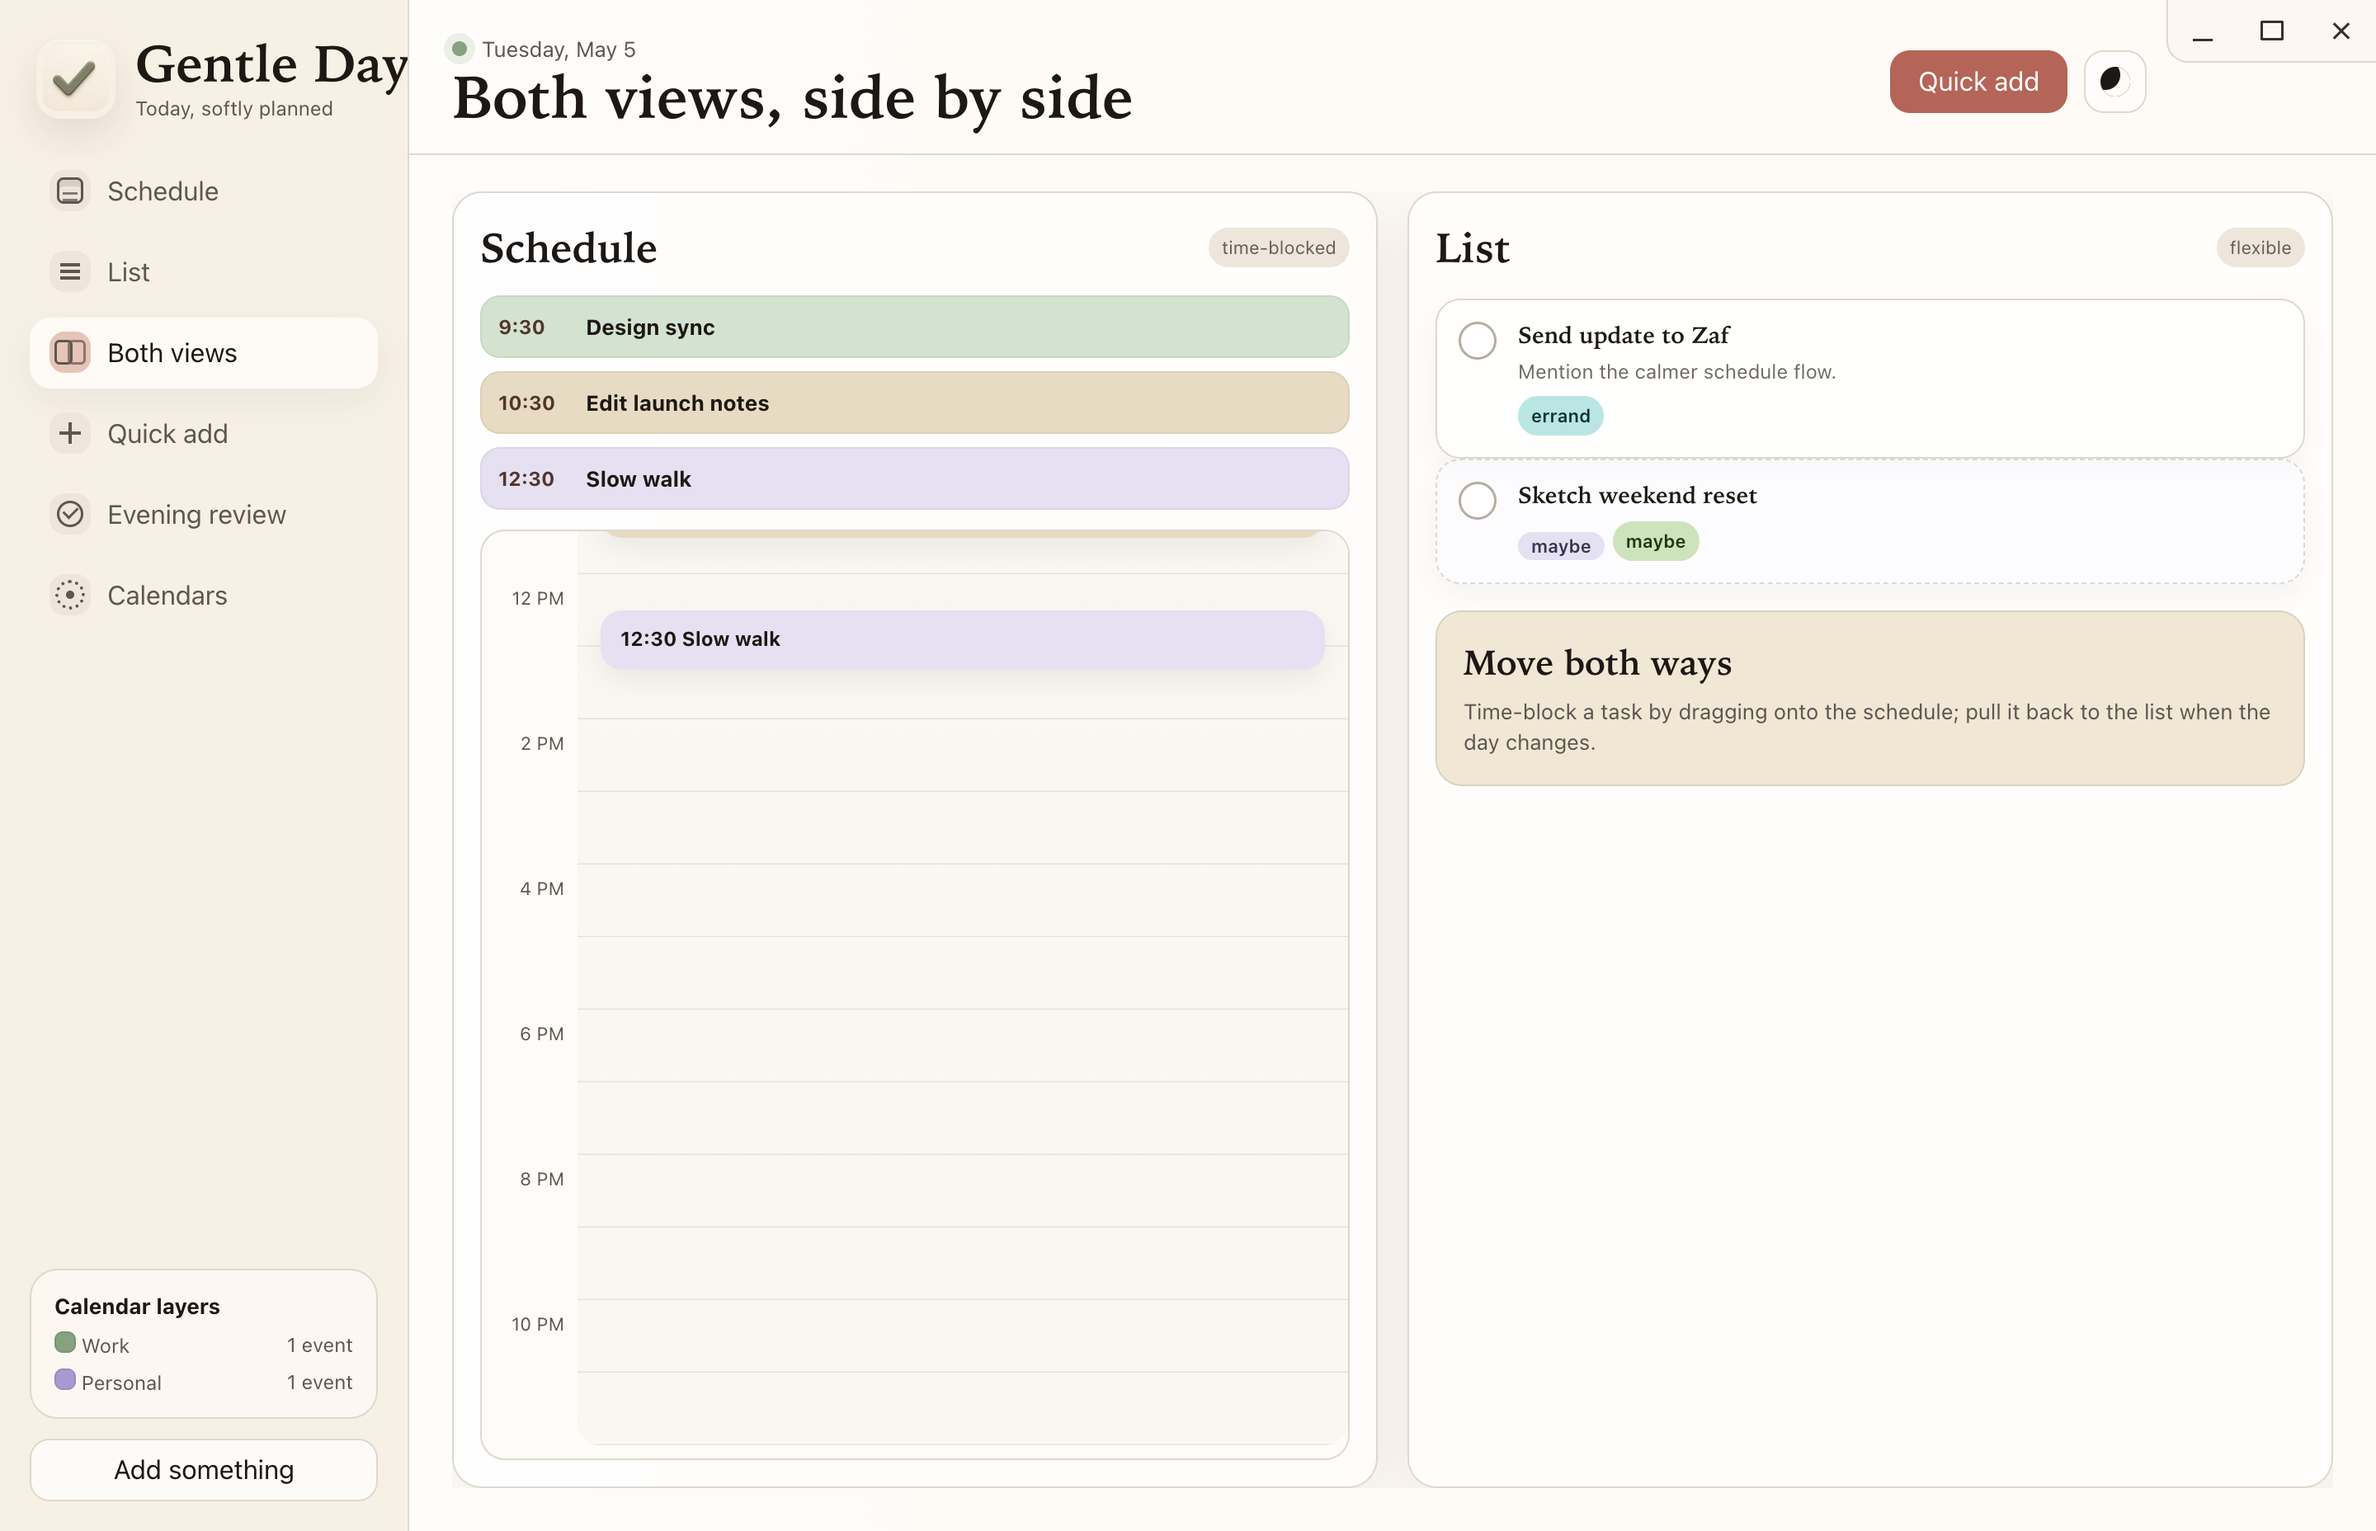
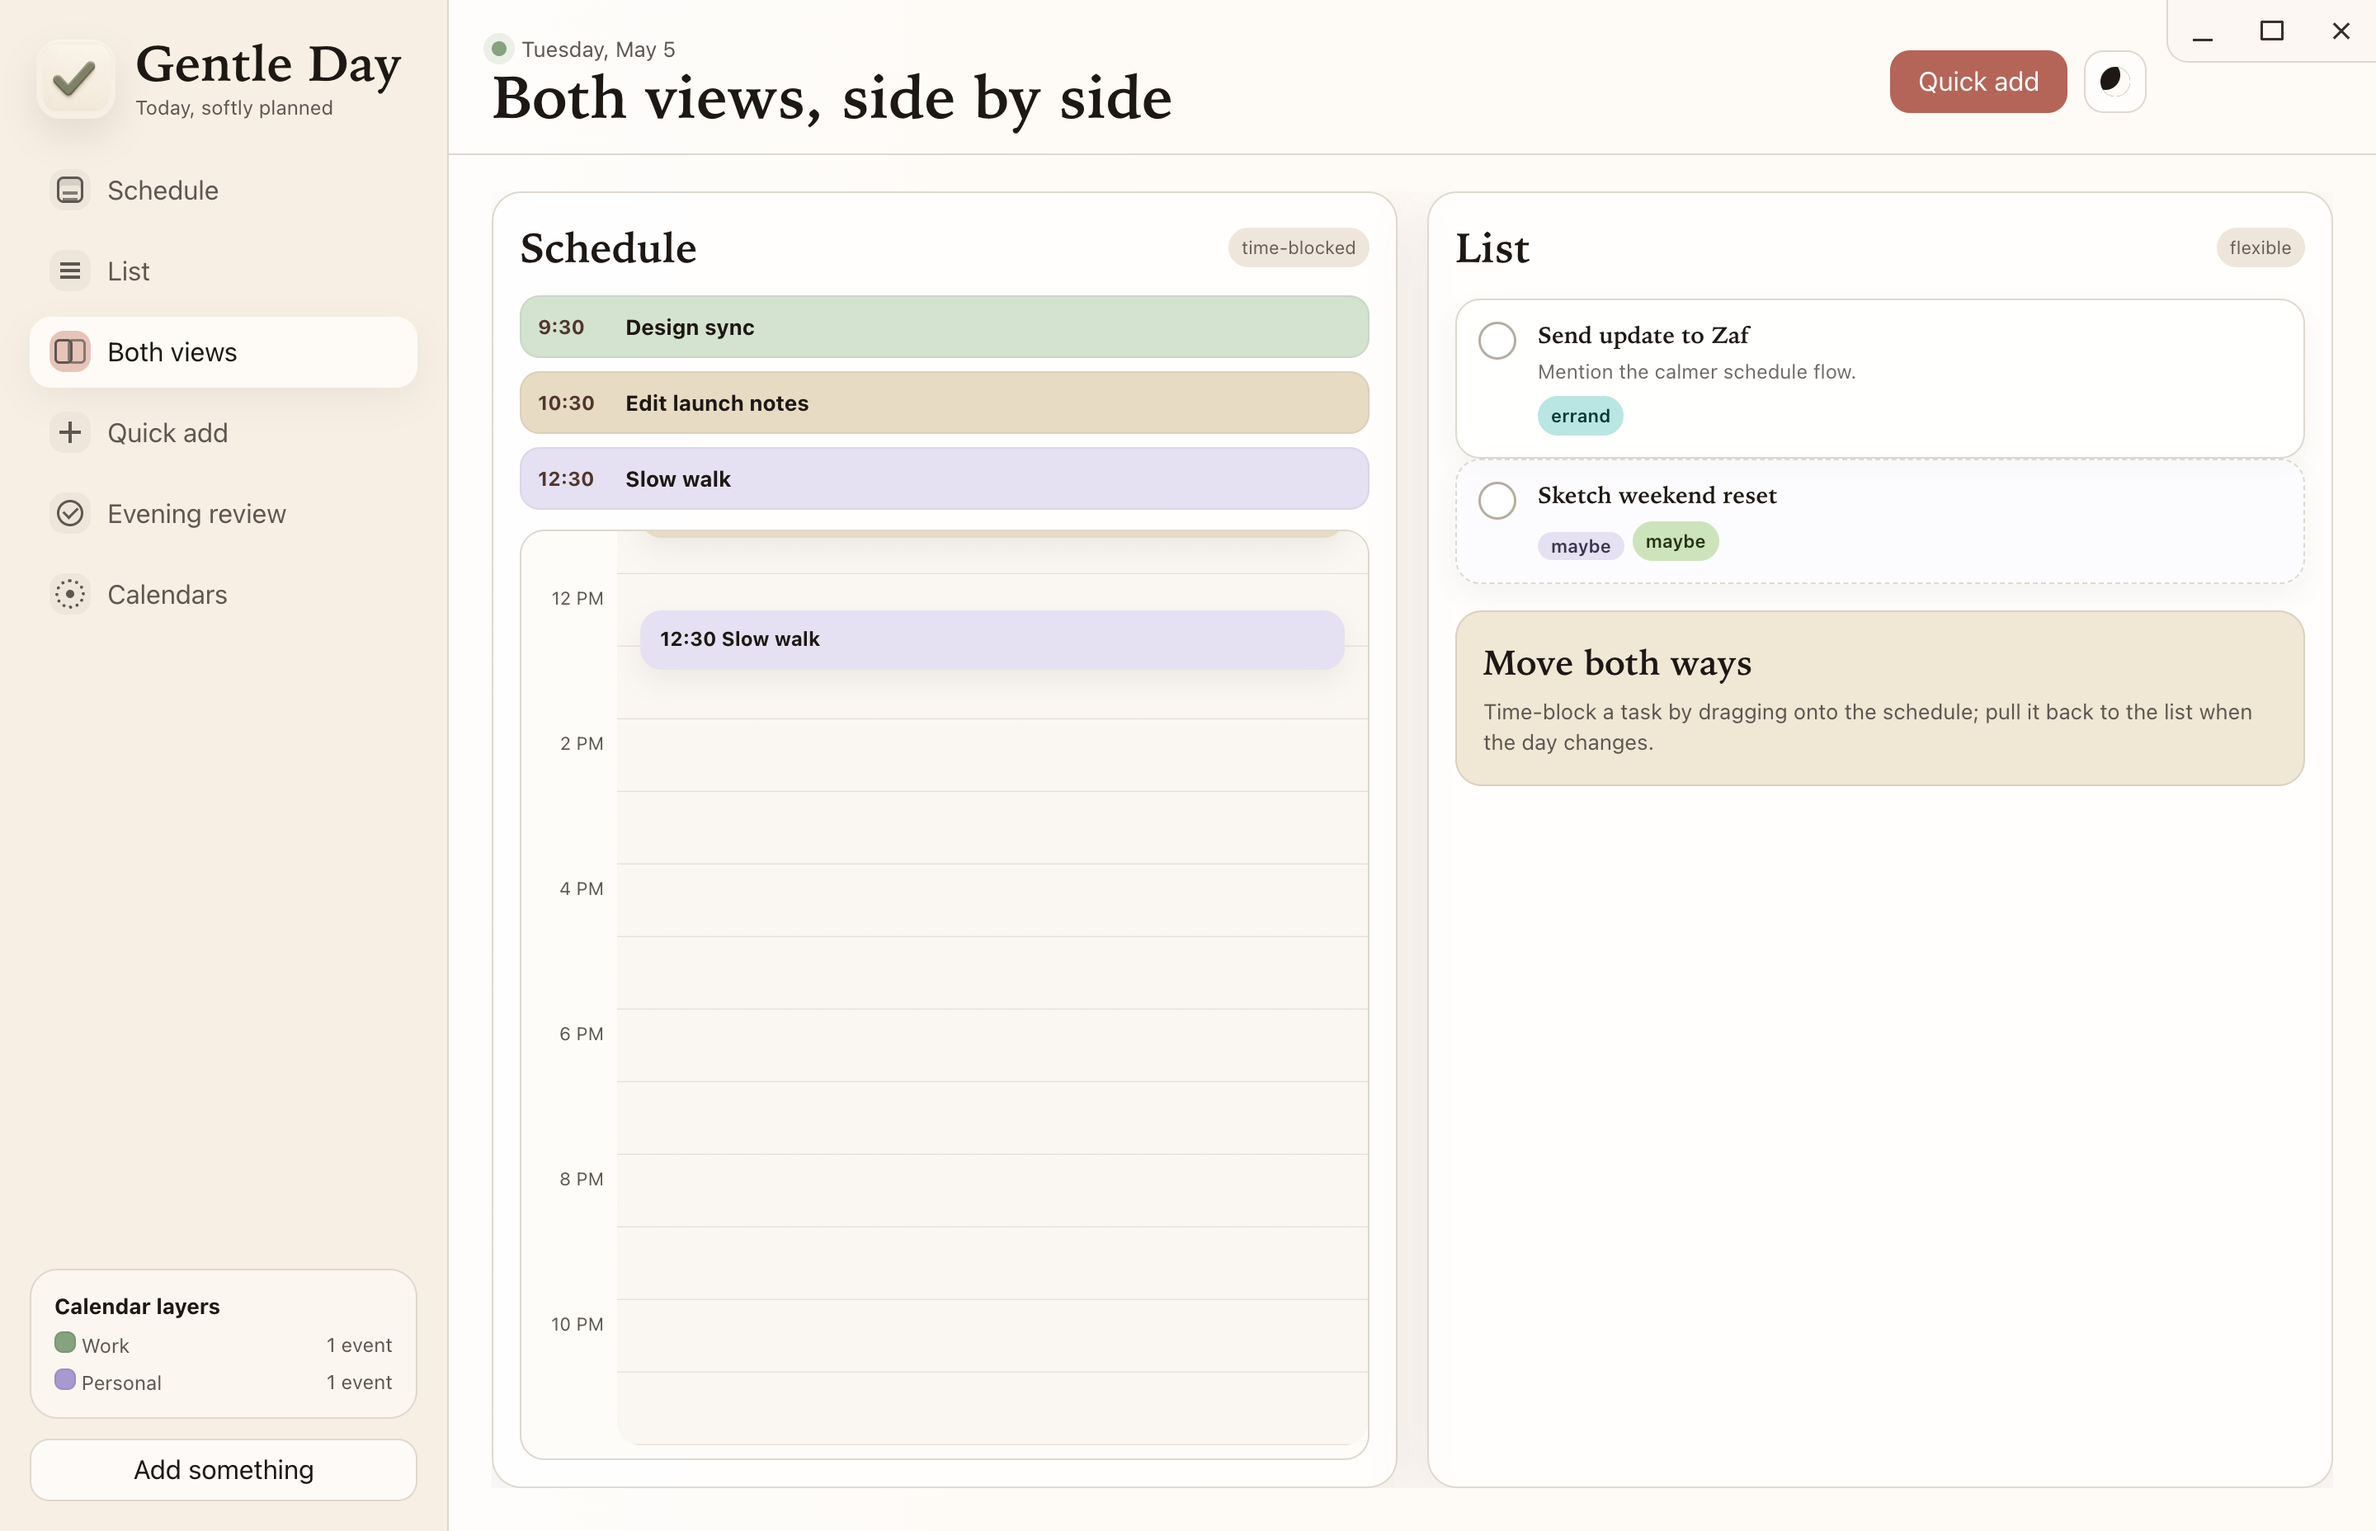
Give sidebar brand more breathing room

diff --git a/renderer/styles.css b/renderer/styles.css
@@ -247,7 +247,7 @@ h1, h2, h3, h4 { font-family: var(--font-display); letter-spacing: 0; margin: 0;
   min-width: 1180px;
   height: 100vh;
   display: grid;
-  grid-template-columns: 248px 1fr;
+  grid-template-columns: 272px 1fr;
   background: color-mix(in oklch, var(--surface) 90%, white);
 }
 
@@ -277,7 +277,7 @@ h1, h2, h3, h4 { font-family: var(--font-display); letter-spacing: 0; margin: 0;
 }
 .brand > div:last-child { min-width: 0; }
 .brand h1 {
-  font-size: 31px;
+  font-size: 30px;
   line-height: 0.95;
   font-weight: 700;
   white-space: nowrap;

diff --git a/tests/ui-static.test.js b/tests/ui-static.test.js
@@ -46,6 +46,7 @@ test('Gentle Day sidebar logo adapts to light and dark themes', () => {
 test('Gentle Day wordmark stays on one line in the sidebar brand', () => {
   const css = read('renderer/styles.css');
 
+  assert.match(css, /grid-template-columns:\s*272px 1fr/);
   assert.match(css, /\.brand h1/);
   assert.match(css, /white-space:\s*nowrap/);
   assert.match(css, /\.brand p[^}]*white-space:\s*nowrap/s);
